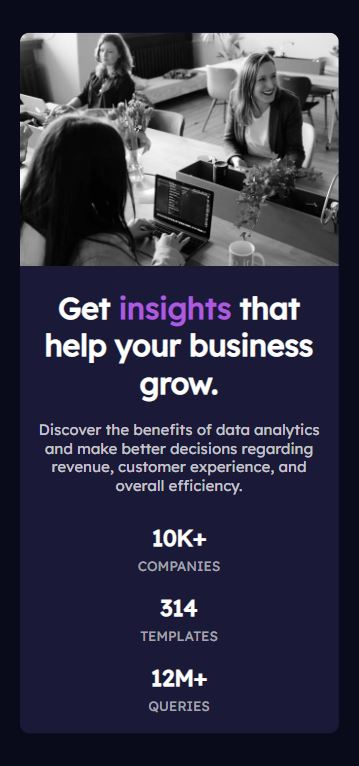
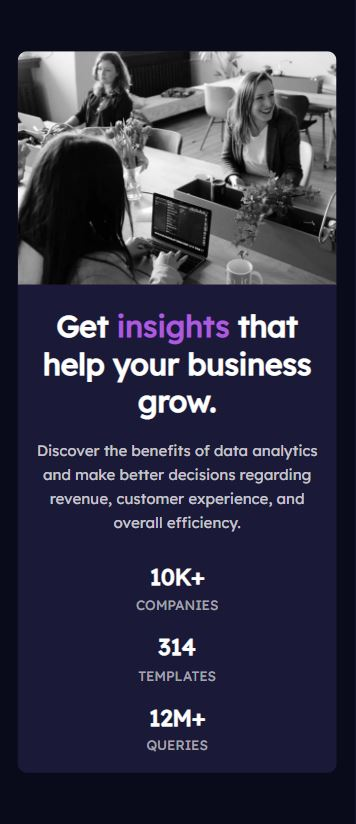
increase container size + add line spacing to description text

diff --git a/style.css b/style.css
@@ -25,20 +25,10 @@ body {
 
 .inner-hero-img-mobile {
     width: 100%;
-
 }
 
 .inner-hero-img-desktop {
     display: none;
-}
-.purple-filter {
-    position: absolute;
-	top: 0;
-	right: 0;
-	bottom: 0;
-	left: 0;
-	background-color: rgba(81, 19, 120, 0.6);
-    z-index: 2;
 }
 
 .inner-title {
@@ -54,6 +44,7 @@ body {
     margin: 20px 20px 30px 20px;
     color: hsla(0, 0%, 100%, 0.75);
     font-size: 1rem;
+    line-height: 1.6rem;
 }
 
 .stat-item-container {
@@ -75,11 +66,11 @@ body {
 }
 
 
-@media screen and (min-width: 900px) {
+@media screen and (min-width: 1100px) {
     
     .card-container {
-        max-width: 1000px;
-        max-height: 450px;
+        max-width: 1100px;
+        max-height: 448px;
         background-color: hsl(244, 38%, 16%);
         color: white;
         text-align: center;
@@ -88,15 +79,15 @@ body {
     }
 
     .inner-title h1 {
-        font-size: 2.1rem;
+        font-size: 2.3rem;
         padding-top: 30px;
         padding-bottom: 20px;
     }
 
     .image-container {
-        width: 50%;
+        width: 48%;
         float: right;
-        max-height: 310px;
+        max-height: 448px;
     }
 
     .inner-hero-img-mobile {
@@ -106,18 +97,18 @@ body {
     .inner-hero-img-desktop {
         display: inline; 
         background-size: cover;
-        mix-blend-mode: inherit; /* needs to be sorted this out */
+       /* mix-blend-mode: inherit; purple img filter ? - needs to be sorted this out */
     }
 
     .left-side-inner-container {
-        width: 50%;
-        padding: 15px 45px 30px 15px;
+        width: 52%;
+        padding: 15px 35px 30px 45px;
         text-align: left;
     }
 
     .inner-description-text {
-        margin: 20px 40px 30px 20px;
-        font-size: 0.9rem;
+        margin: 15px 40px 40px 20px;
+        font-size: 1rem;
     }
 
     .inner-stats-wrapper {
@@ -135,8 +126,8 @@ body {
     }
 
     .stat-item-2 {
-        margin-left: 45px;
-        margin-right: 45px;
+        margin-left: 55px;
+        margin-right: 55px;
     }
 
     .stat-item-3 {
@@ -144,10 +135,10 @@ body {
     }
 
     .stat-number {
-        font-size: 1.35rem;
+        font-size: 1.5rem;
     }
     
     .stat-text {
-        font-size: 0.8rem;
+        font-size: 0.9rem;
     }
 }
